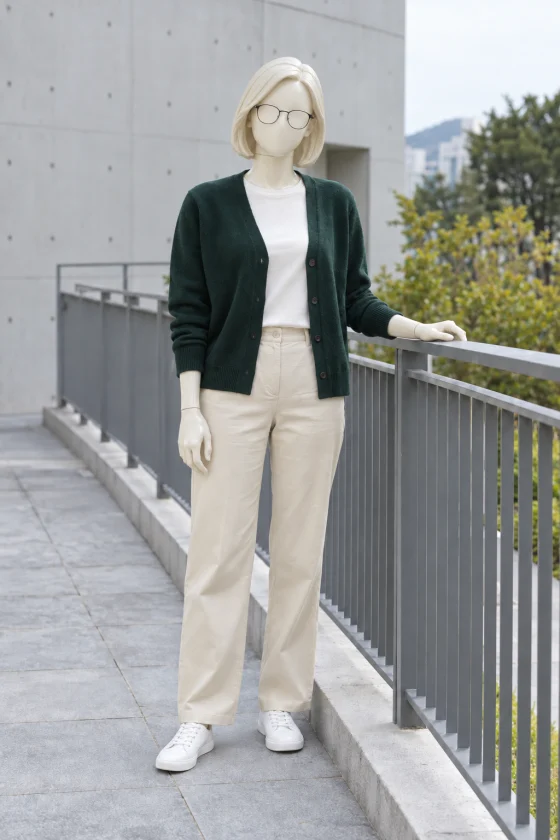
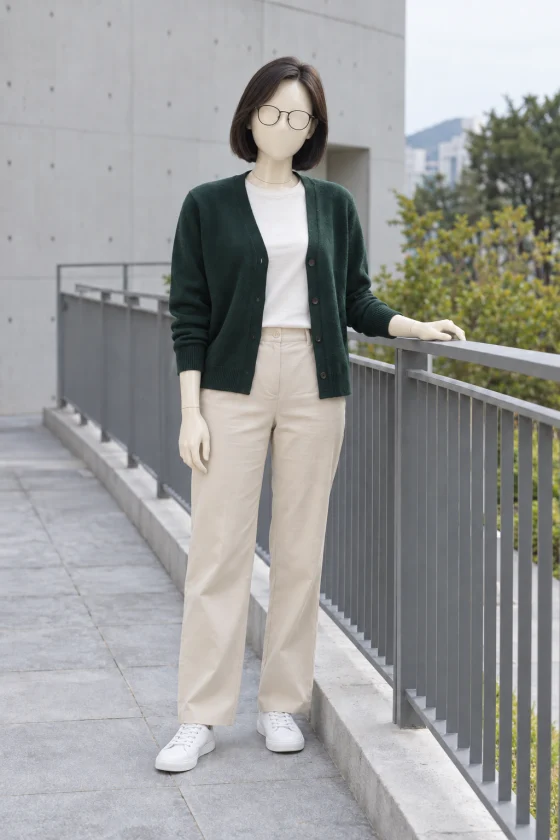
Preserve original hair color in mannequin transformations

diff --git a/docs/mannequin-v2-review-2026-10-18.md b/docs/mannequin-v2-review-2026-10-18.md
@@ -1,0 +1,14 @@
+# 마네킹 v2: 원래 머리색 유지
+
+v1에는 머리카락을 같은 아이보리색 일체형 조형으로 만들라는 명시적 지시가 있어 검정·갈색 머리까지 흰색으로 바뀌었다. 사용자의 머리색 관련 피드백에 따라 피부와 머리카락의 색 적용 범위를 구분했다. 피부는 아이보리색 레진, 머리는 원래 색과 색 분포로 도색한 조형으로 지정했다. 실제 머리카락 금지 조건도 한 올씩 사실적인 머리카락 묘사를 피하라는 뜻으로 명확히 했다.
+
+기존 짙은 갈색 단발 원본과 새 구릿빛 갈색 곱슬머리 원본에 동일한 v2 문구만 한 번씩 적용했다. 두 시험 모두 원본 한 장 외 참고 이미지나 사진별 추가 지시·후편집은 없다. v1의 원본 생성 기록·문구·해시는 그대로 두고 [v1 결과](assets/mannequin-v1.webp)와 [썸네일](assets/mannequin-v1.thumb.webp)을 별도 보존했다. 실제 도구 입력과 새 파일 연결은 [v2 생성 기록](image-generation-2026-10-18-mannequin-v2.json)에 남겼다.
+
+- 짙은 머리: 기존 원본의 짙은 갈색 단발·가르마·안경과 의상·난간 접촉·배경을 유지했다. 피부만 아이보리색으로 바뀌었다. 머리카락·손가락 세부와 옷 주름은 약간 달라졌다.
+- 갈색 곱슬머리: 구릿빛이 섞인 갈색과 큰 곱슬 윤곽, 파란 스웨터·회색 바지·갈색 신발 및 석벽 배경을 유지했다. 얼굴·목 윤곽과 손가락 세부는 재해석됐다.
+
+두 가상 성인 사진에서 머리가 흰색으로 통일되는 문제는 재현되지 않았다. 흰머리·금발·다색 염색·단체·다른 연령·물건을 든 손은 미검증이다. 모든 경우의 색 보존을 보장하지 않는다.
+
+카탈로그의 기존 mannequin ID·제목·order와 다른 34개 항목을 유지했다. 대표 결과와 썸네일을 v2로 교체하고 두 머리색 예시를 연결했다. 원본·결과는 자르지 않은 1024×1536 무손실 WebP이며 원본 PNG와 디코딩 픽셀이 같음을 확인했다. 썸네일은 비율을 유지한 560×840이다.
+
+로컬 검증: npm run check 통과. 단위·데이터 14개, 35개 상세 페이지 빌드, 데스크톱·모바일 Chromium 26개가 성공했다. 마네킹의 두 예시 전환 시 결과·원본·다운로드가 함께 바뀌고 프롬프트는 유지되는 동작까지 확인했다.
